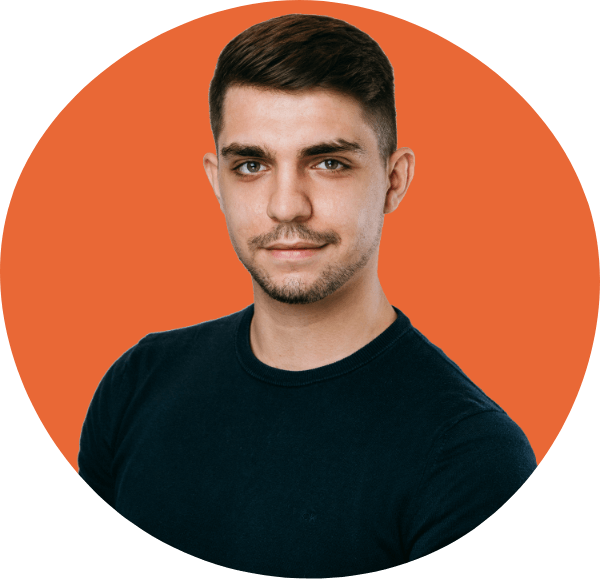
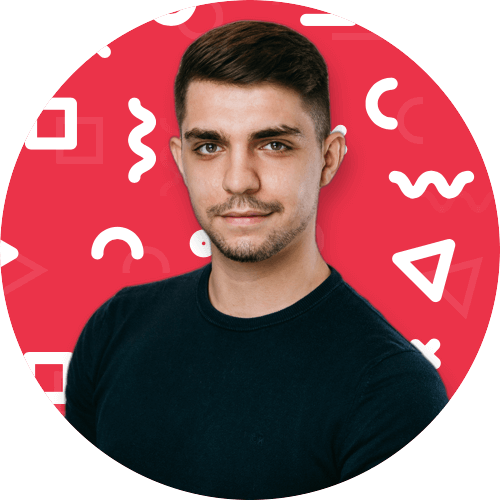
feat: update colors

diff --git a/src/components/Blog/HotArticleCard/HotArticleCard.module.css b/src/components/Blog/HotArticleCard/HotArticleCard.module.css
@@ -38,7 +38,7 @@
 }
 
 .RightPart h2 a {
-  color: #222222;
+  color: #0e131b;
   margin: 0;
   text-decoration: none;
 }
@@ -56,11 +56,11 @@
   margin: 22px 0 0;
   font-size: 18px;
   text-align: justify;
-  color: #888888;
+  color: #73889f;
 }
 
 .TimeRead {
-  color: #888888;
+  color: #73889f;
   font-size: 18px;
   position: absolute;
   right: 40px;
@@ -76,7 +76,7 @@
   background-color: white;
   border-radius: 10px;
   box-shadow: 0 0 6px rgba(0, 0, 0, 0.16);
-  color: #222222;
+  color: #0e131b;
   font-weight: 700;
   font-size: 18px;
 }

diff --git a/src/components/Blog/Hero/Hero.module.css b/src/components/Blog/Hero/Hero.module.css
@@ -1,5 +1,5 @@
 .Container {
-  background: linear-gradient(to left top, #f7830c, #c52068);
+  background: linear-gradient(to right, var(--color-primary), var(--color-secondary));
   display: flex;
   position: relative;
   flex-direction: column;
@@ -21,7 +21,7 @@
 }
 
 .Intro h1 {
-  color: #f3f3f3;
+  color: #fff;
   font-weight: 800;
   font-size: 72px;
   margin: 0 0 10px;
@@ -34,7 +34,7 @@
 
 .Intro h2 {
   font-weight: 400;
-  color: #f3f3f3;
+  color: #fff;
   font-size: 30px;
   line-height: 40px;
   width: 800px;

diff --git a/src/components/Index/Hero/Hero.module.css b/src/components/Index/Hero/Hero.module.css
@@ -1,5 +1,5 @@
 .Container {
-  background: linear-gradient(to left top, #f7830c, #c52068);
+  background: linear-gradient(to right, var(--color-primary), var(--color-secondary));
   display: flex;
   position: relative;
   flex-direction: column;
@@ -21,7 +21,7 @@
 }
 
 .Intro h1 {
-  color: #f3f3f3;
+  color: #fff;
   font-weight: 800;
   font-size: 72px;
   margin: 0 0 10px;
@@ -34,7 +34,7 @@
 
 .Intro h2 {
   font-weight: 400;
-  color: #f3f3f3;
+  color: #fff;
   font-size: 30px;
   line-height: 40px;
 }

diff --git a/src/components/Index/Portfolio/Project/Project.module.css b/src/components/Index/Portfolio/Project/Project.module.css
@@ -28,7 +28,7 @@
 
 .DescriptionBlock {
   max-width: 450px;
-  color: #222222;
+  color: #0e131b;
   padding: 0 20px 0 50px;
 }
 
@@ -44,7 +44,7 @@
 }
 
 .DescriptionBlock h3 {
-  color: #222222;
+  color: #0e131b;
   font-size: 28px;
   margin: 0 0 5px;
 }
@@ -61,7 +61,7 @@
 .Text a {
   text-decoration: none;
   font-weight: bold;
-  color: #222222;
+  color: #0e131b;
 }
 
 @media (min-width: 600px) {

diff --git a/src/components/Blog/ArticleCard/ArticleCard.module.css b/src/components/Blog/ArticleCard/ArticleCard.module.css
@@ -22,7 +22,7 @@
 }
 
 .RightPart h2 a {
-  color: #222222;
+  color: #0e131b;
   margin: 0;
   text-decoration: none;
 }
@@ -35,12 +35,12 @@
 .RightPart p {
   width: 640px;
   margin: 8px 0;
-  color: #888888;
+  color: #73889f;
   font-size: 18px;
 }
 
 .TimeRead {
-  color: #888888;
+  color: #73889f;
   font-size: 18px;
   position: absolute;
   left: 0px;

diff --git a/src/styles/global.css b/src/styles/global.css
@@ -19,7 +19,7 @@ body {
 
 body pre[class*="language-"],
 body code[class*="language-"] {
-  color: var(--text-primary);
+  color: var(--color-text-primary);
   text-shadow: none;
   font-family: 'Fira Mono', monospace;
   direction: ltr;

diff --git a/src/components/Footer/Footer.module.css b/src/components/Footer/Footer.module.css
@@ -1,5 +1,5 @@
 .Container {
-  background: linear-gradient(to left top, #f7830c, #c52068);
+  background: linear-gradient(to right, var(--color-primary), var(--color-secondary));
   position: relative;
   padding: 40px;
   color: white;

diff --git a/src/components/Blog/SecondaryArticleCard/SecondaryArticleCard.module.css b/src/components/Blog/SecondaryArticleCard/SecondaryArticleCard.module.css
@@ -52,7 +52,7 @@
 }
 
 .TimeRead {
-  color: #888888;
+  color: #73889f;
   font-size: 18px;
   position: absolute;
   right: 40px;

diff --git a/src/components/Index/AboutMe/AboutMe.module.css b/src/components/Index/AboutMe/AboutMe.module.css
@@ -45,7 +45,7 @@
 }
 
 .Role h3 {
-  color: #222222;
+  color: #0e131b;
 }
 
 .RoleList {
